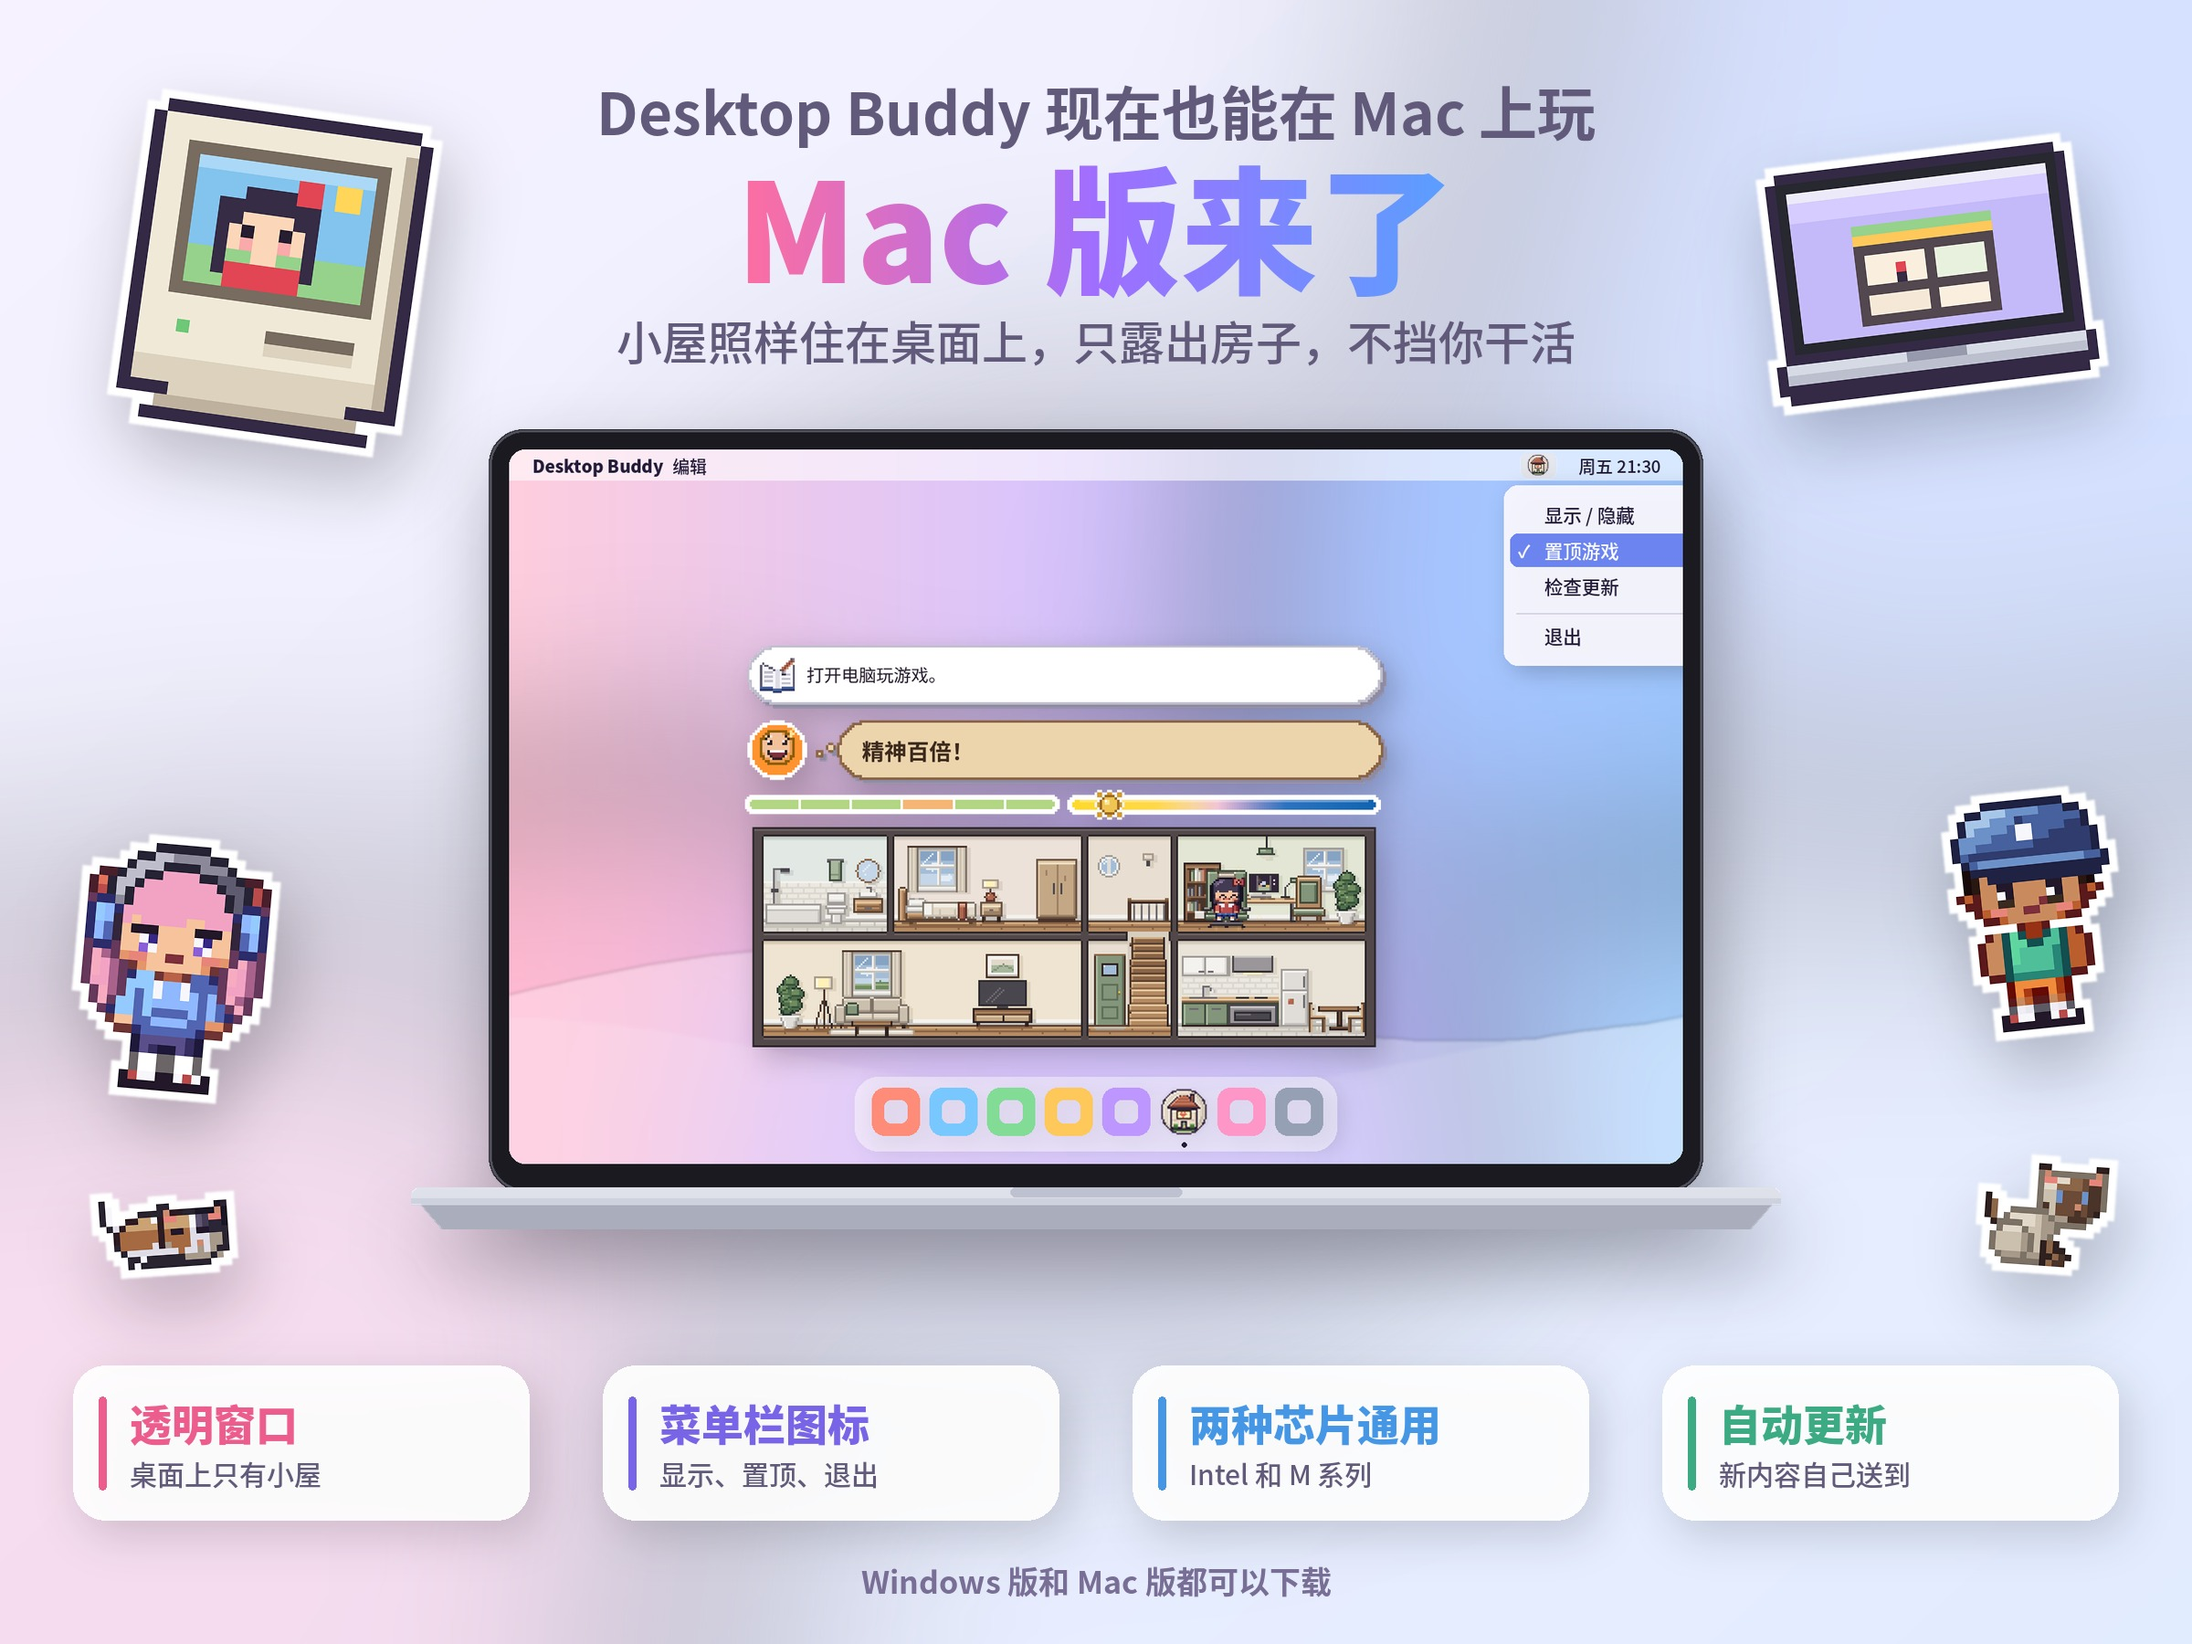
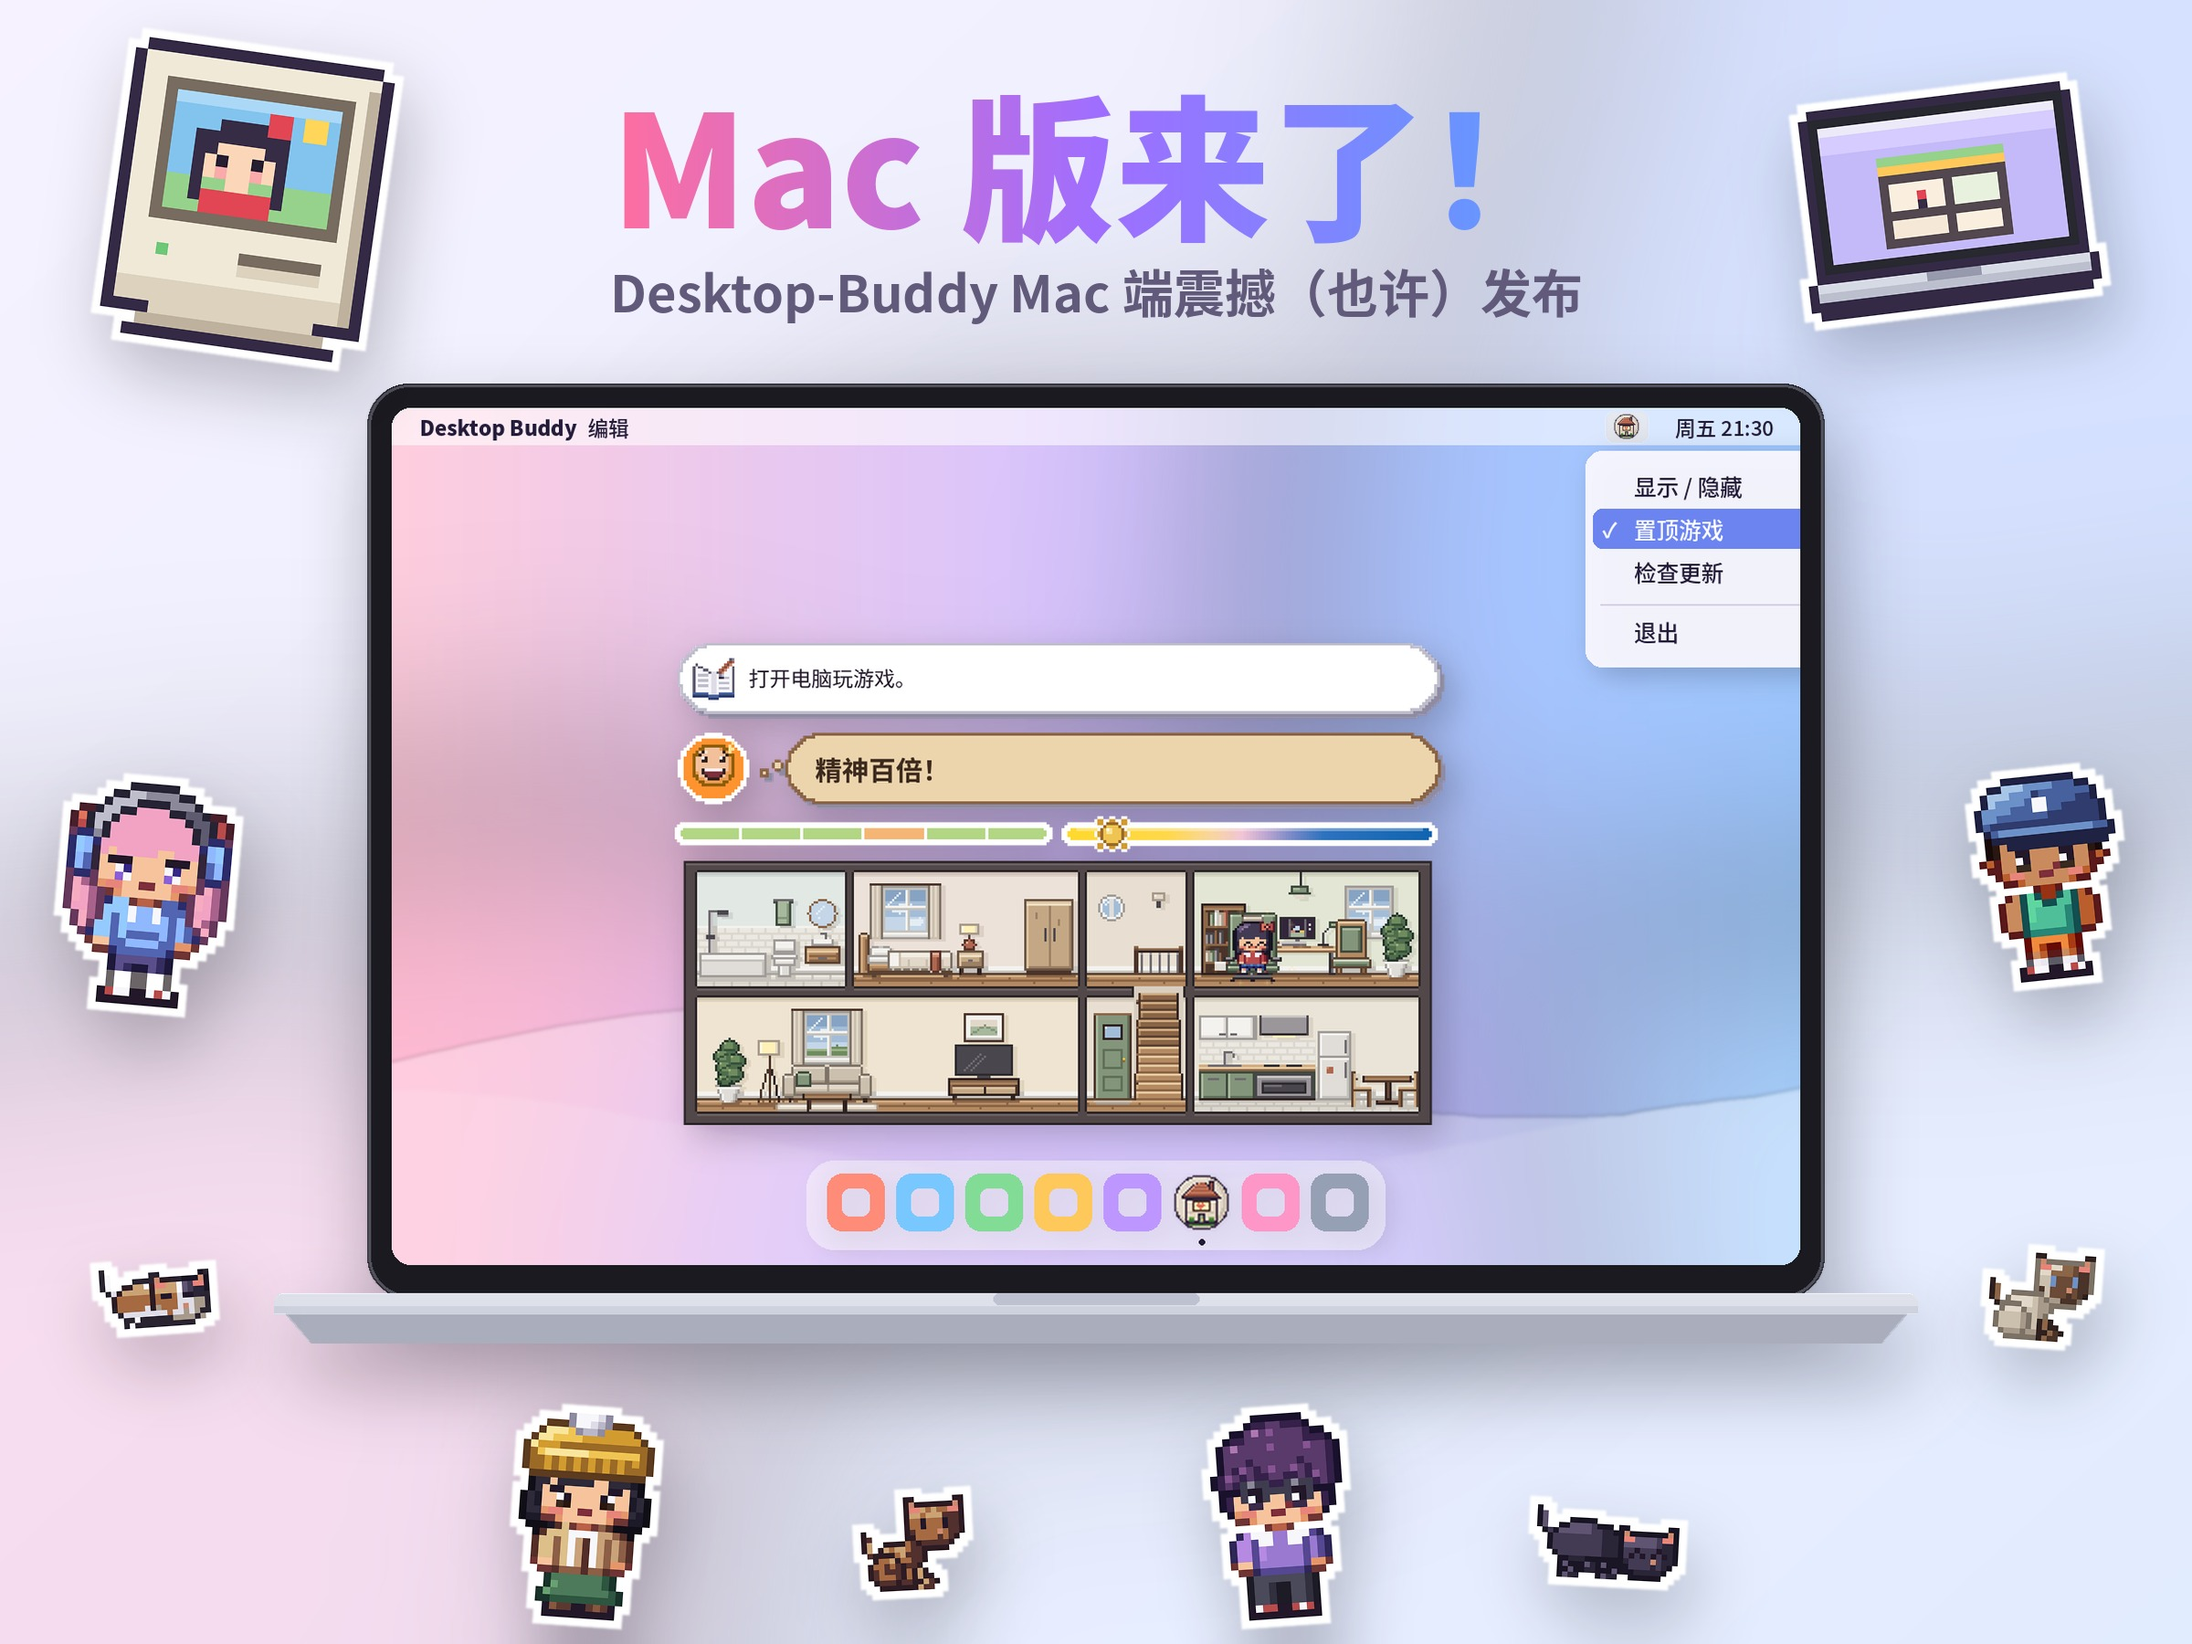
Marketing: Mac poster, title and subtitle only, no feature cards
Claude-Session: https://claude.ai/code/session_01QXRFGGwh6ntFozGXtHod51

diff --git a/tools/make_mac_poster.py b/tools/make_mac_poster.py
@@ -1,6 +1,6 @@
 # The "Mac 版来了" poster (4:3, same look as tools/make_posters.py): a drawn
 # MacBook whose desktop shows the game see-through, the menu bar icon with its
-# menu open, the Dock; pixel-art computer stickers; four feature cards.
+# menu open, the Dock; pixel-art computer, doll and pet stickers around it.
 #   python3 tools/make_mac_poster.py GAME_PNG STICKER_DIR OUT_JPG
 # GAME_PNG: the game shot with a transparent background (Playwright,
 # omitBackground). STICKER_DIR: the trailer's stickers (doll*.png, pet*.png).
@@ -184,37 +184,26 @@ def macbook(game, app_icon):
     return out
 
 
-def feature(title, line, col, w=500, h=170):
-    c = rounded((w, h), 36, (255, 255, 255, 236)); d = ImageDraw.Draw(c)
-    d.rounded_rectangle([28, 34, 36, h - 34], 4, fill=col + (255,))
-    text(d, title, 46, 62, 62, col, 'Black', 'lm'); text(d, line, 30, 62, 118, SOFT, 'Medium', 'lm')
-    return c
-
-
 # ---------------------------------------------------------------- the poster
 bg = backdrop((246, 242, 255), (226, 236, 255), [(300, 1500, 520, (255, 200, 222)), (2100, 380, 540, (190, 210, 255)), (1200, 950, 460, (226, 214, 255))])
 d = ImageDraw.Draw(bg)
-text(d, 'Desktop Buddy 现在也能在 Mac 上玩', 64, W / 2, 120, SOFT, 'Bold')
-grad_text(bg, 'Mac 版来了', 150, W / 2, 245, [(255, 110, 160), (160, 110, 255), (90, 160, 255)])
-text(d, '小屋照样住在桌面上，只露出房子，不挡你干活', 50, W / 2, 372, SOFT, 'Medium')
+grad_text(bg, 'Mac 版来了！', 170, W / 2, 175, [(255, 110, 160), (160, 110, 255), (90, 160, 255)])
+text(d, 'Desktop-Buddy Mac 端震撼（也许）发布', 56, W / 2, 318, SOFT, 'Bold')
 
 icon = Image.open('art/out/concept/app_icon.png').convert('RGBA')
 mb = macbook(Image.open(GAME).convert('RGBA'), icon)
-k = 1500 / mb.width; mb = mb.resize((int(mb.width * k), int(mb.height * k)), Image.LANCZOS)
-placec(bg, mb, W / 2, 470 + mb.height / 2, shadow=80, blur=40, dy=40)
+k = 1800 / mb.width; mb = mb.resize((int(mb.width * k), int(mb.height * k)), Image.LANCZOS)
+placec(bg, mb, W / 2, 420 + mb.height / 2, shadow=80, blur=40, dy=40)
 
-cards = [('透明窗口', '桌面上只有小屋', (236, 92, 140)), ('菜单栏图标', '显示、置顶、退出', (120, 100, 230)),
-         ('两种芯片通用', 'Intel 和 M 系列', (70, 150, 230)), ('自动更新', '新内容自己送到', (60, 170, 130))]
-for i, (t, l, c) in enumerate(cards):
-    placec(bg, feature(t, l, c), 330 + i * 580, 1580, shadow=45, blur=24, dy=16)
 
-sticker(bg, retro_mac(), 14, 300, 300, -8)
-sticker(bg, laptop(), 11, 2110, 300, 7)
-sticker(bg, Image.open(STK / 'doll0.png'), 10, 190, 1060, -5)
-sticker(bg, Image.open(STK / 'doll5.png'), 9, 2230, 1000, 6)
-sticker(bg, Image.open(STK / 'pet2.png'), 7, 180, 1350, 4)
-sticker(bg, Image.open(STK / 'pet6.png'), 7, 2240, 1330, -4)
-text(d, 'Windows 版和 Mac 版都可以下载', 34, W / 2, H - 70, (120, 110, 150), 'Bold')
+sticker(bg, retro_mac(), 13, 270, 220, -8)
+sticker(bg, laptop(), 10, 2130, 220, 7)
+sticker(bg, Image.open(STK / 'doll0.png'), 9, 160, 980, -5)
+sticker(bg, Image.open(STK / 'doll5.png'), 8, 2245, 960, 6)
+sticker(bg, Image.open(STK / 'pet2.png'), 6, 170, 1420, 4)
+sticker(bg, Image.open(STK / 'pet6.png'), 6, 2235, 1420, -4)
+for n, k, cx, cy, a in [('doll2', 8, 640, 1660, -4), ('pet0', 6, 1000, 1690, 3), ('doll7', 8, 1400, 1660, 4), ('pet4', 6, 1760, 1690, -3)]:
+    sticker(bg, Image.open(STK / f'{n}.png'), k, cx, cy, a)
 OUT.parent.mkdir(parents=True, exist_ok=True)
 bg.convert('RGB').save(OUT, quality=92)
 print('poster ->', OUT)
